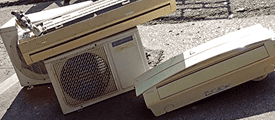
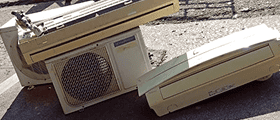
blog

diff --git a/recicladoraRamiroCalle/blog.html b/recicladoraRamiroCalle/blog.html
@@ -57,9 +57,10 @@
                 <a href="#" class="read-more">Leer más</a>
             </article>
         </section>
-        <!-- <section class="articles">
+        <section class="articles">
             <article>
                 <div class="date-box">7 de abril de 2025</div>
+                <img src="images/blog-split.png" alt="">
                 <h2>Título del Artículo</h2>
                 <p>Descripción breve del contenido...</p>
                 <a href="#" class="read-more">Leer más</a>
@@ -68,11 +69,21 @@
         <section class="articles">
             <article>
                 <div class="date-box">7 de abril de 2025</div>
+                <img src="images/blog-split.png" alt="">
                 <h2>Título del Artículo</h2>
                 <p>Descripción breve del contenido...</p>
                 <a href="#" class="read-more">Leer más</a>
             </article>
-        </section> -->
+        </section>
+        <section class="articles">
+            <article>
+                <div class="date-box">7 de abril de 2025</div>
+                <img src="images/blog-split.png" alt="">
+                <h2>Título del Artículo</h2>
+                <p>Descripción breve del contenido...</p>
+                <a href="#" class="read-more">Leer más</a>
+            </article>
+        </section>
     </main>
    
  

diff --git a/recicladoraRamiroCalle/styleBlog.css b/recicladoraRamiroCalle/styleBlog.css
@@ -1,5 +1,6 @@
 main  {
-    margin-left: 30px;
+    margin-left: 20px;
+    margin-top: 15px;
 }
 
 .articles {
@@ -7,7 +8,7 @@ main  {
     display: inline-block;
     flex-wrap: wrap;
     justify-content: center;
-    margin: 20px;
+
 }
 
 
@@ -15,7 +16,7 @@ main  {
 article {
     position: relative;
     background: white;
-    padding: 20px;
+    padding: 15px;
     margin: 10px;
     max-height: 275px;
     max-width: 275px;
@@ -69,12 +70,11 @@ footer{
     }
 
     main  {
-        margin-left: 0px;
+        margin-left: 25px;
+        margin-top: 5px;
     }
     
-    article { 
-        width: 280px;
-    }
+   
 
 
 }
